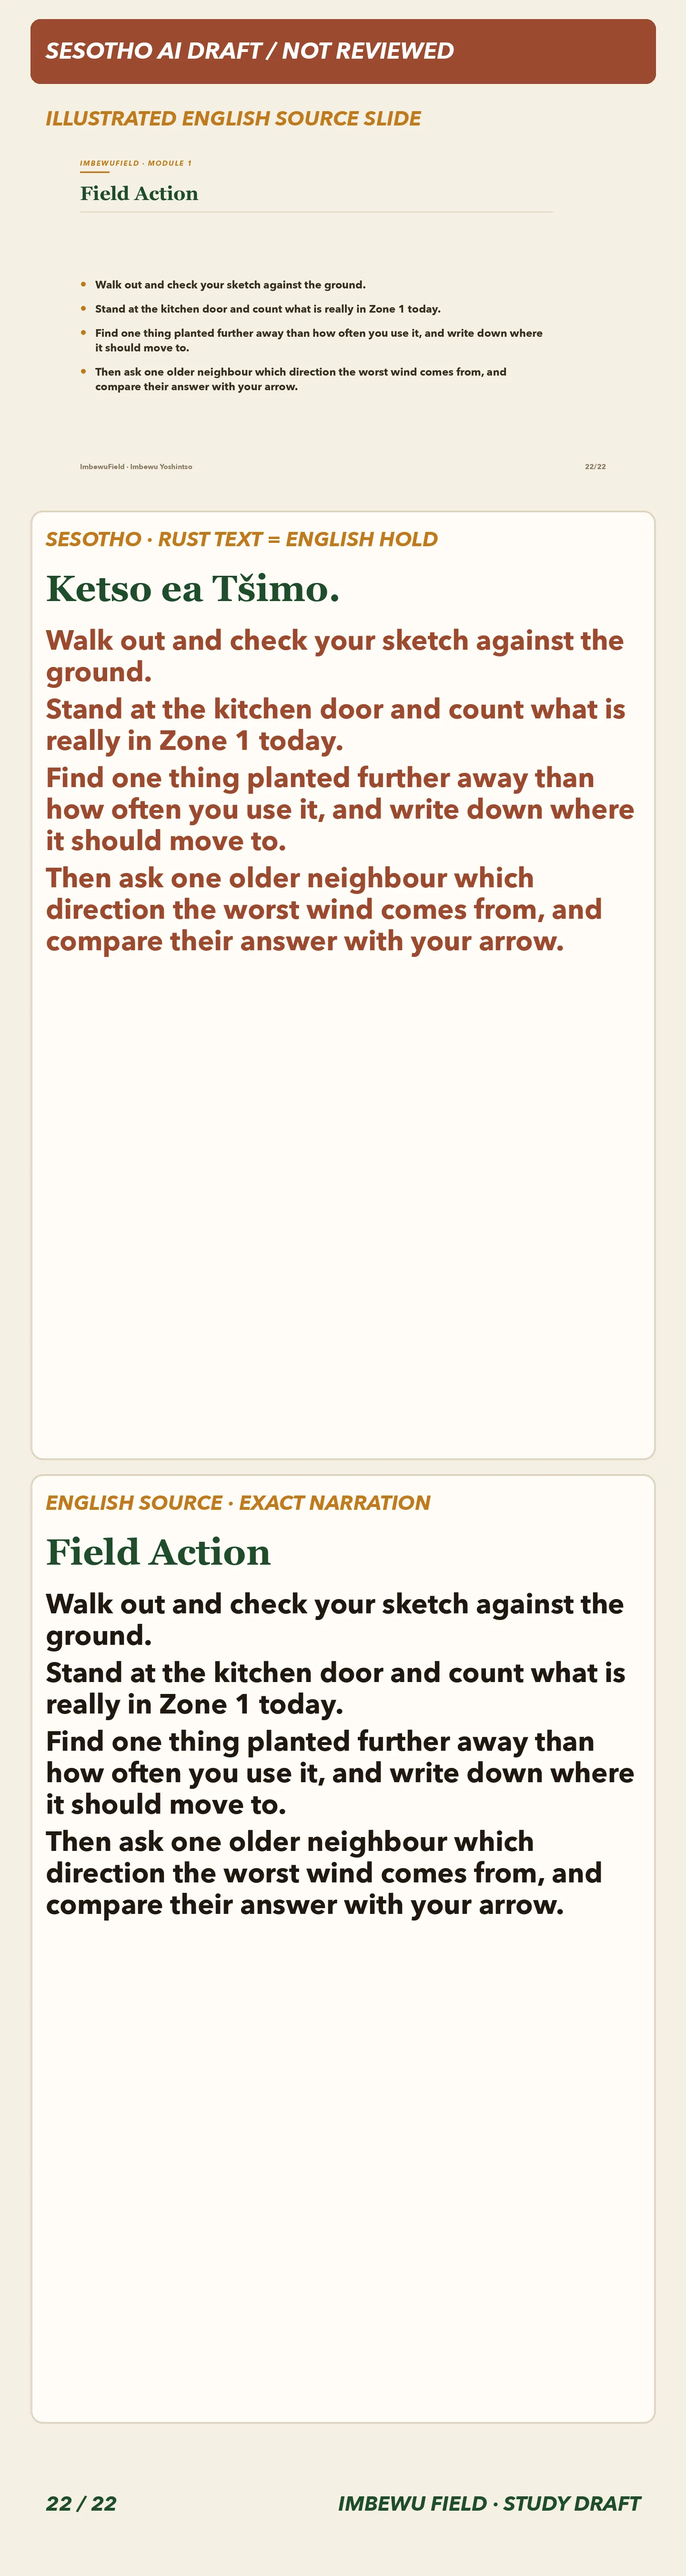
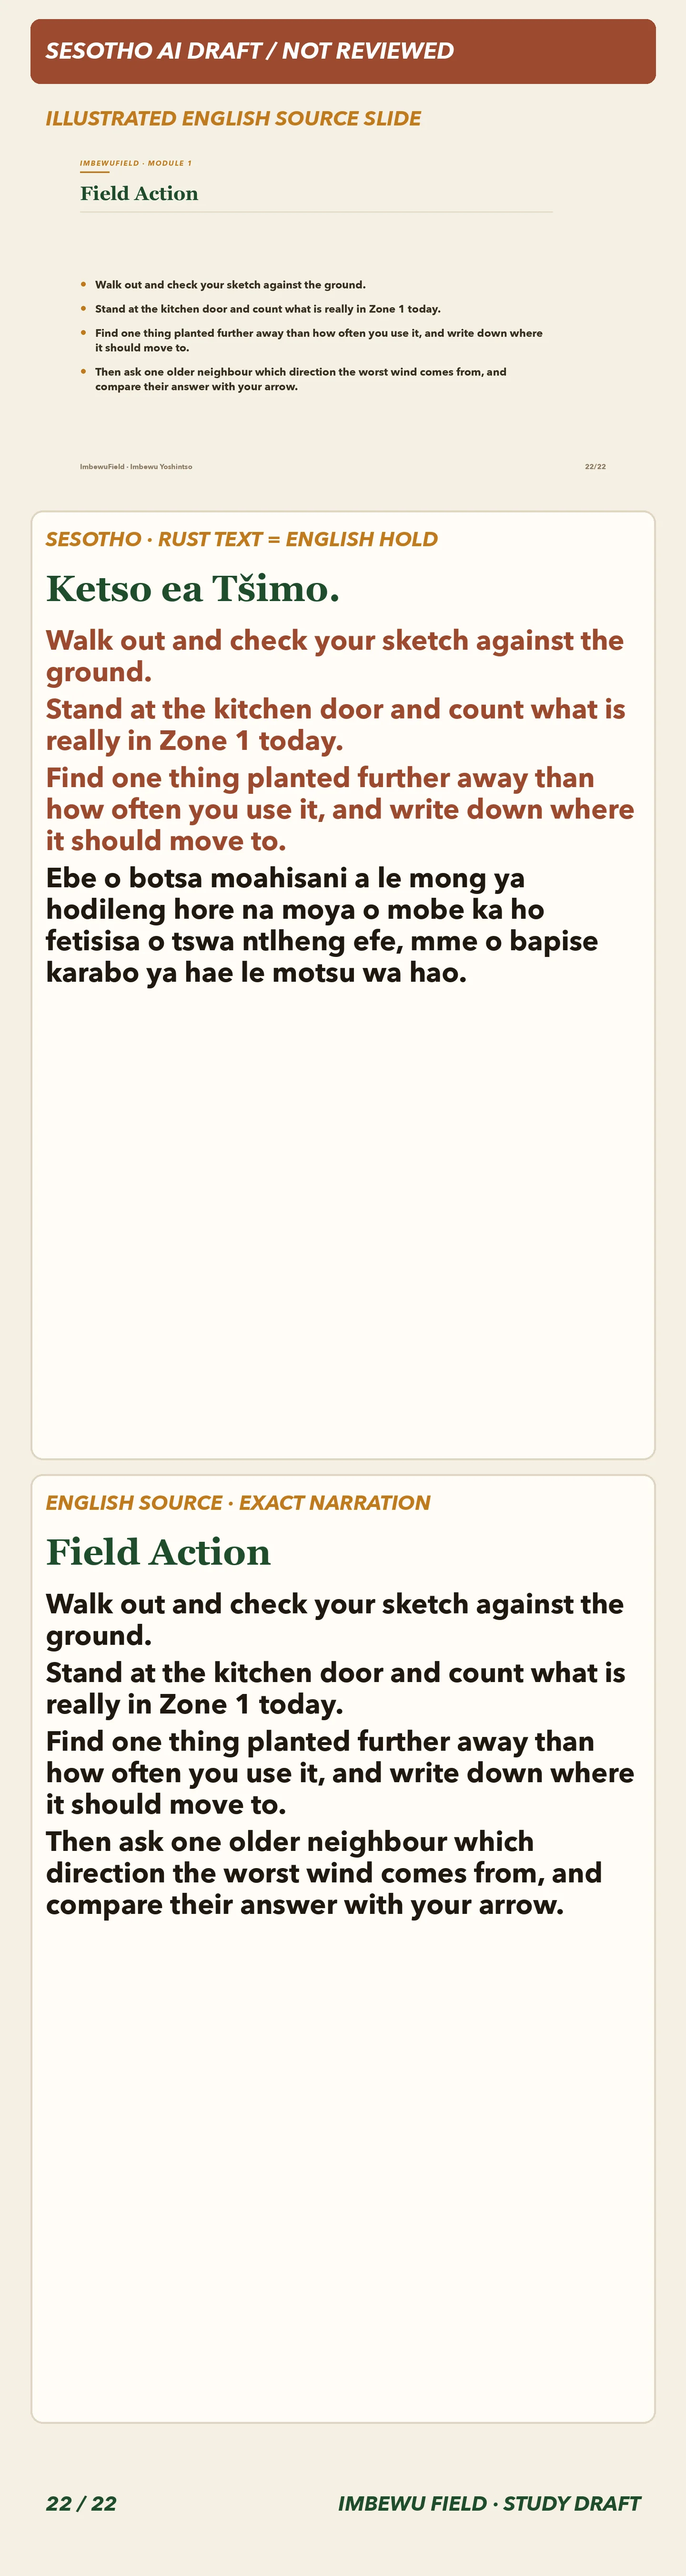
Extend source-paired Sesotho Introduction slides

Changed region(s): [[0.0625, 0.3111, 0.875, 0.4044]]

diff --git a/tests/paired-draft-slides.test.ts b/tests/paired-draft-slides.test.ts
@@ -30,6 +30,28 @@ test('the Sesotho pilot pairs all 22 actual English introduction slides in autho
   assert.equal(validatePairedDraft(completeHold(), source).length, 22);
 });
 
+test('Sesotho Introduction review slides keep uncertain field steps paired in English beside backchecked draft lines', () => {
+  const packet = JSON.parse(readFileSync('docs/narration/intro-permaculture.st.paired-draft.json', 'utf8'));
+  const slides = validatePairedDraft(packet, source, 'st');
+  const body = (n: number) => slides[n - 1].target.body;
+
+  assert.equal(body(20)[1].status, 'draft');
+  assert.equal(body(20)[1].text, 'Ebe o thala metsu e kenang ho tswa kantle bakeng sa letsatsi, moya, mollo le metsi.');
+  assert.equal(body(20)[2].status, 'draft');
+  assert.equal(body(20)[2].text, 'Leqephe leo la pampiri ke mokokotlo wa moralo wa hao. Ntho e nngwe le e nngwe khosong ena e itshetlehile hodima lona.');
+  assert.equal(body(20)[0].status, 'english-hold', 'the rings instruction stays paired in exact English after the backcheck flagged ambiguous wording');
+
+  assert.equal(body(21)[3].status, 'draft');
+  assert.equal(body(21)[3].text, 'Nka senepe sa setshwantsho.');
+  assert.ok(body(21).slice(0, 3).every((part: any) => part.status === 'english-hold'),
+    'technical zone and energy directions stay exact English for facilitator review');
+
+  assert.equal(body(22)[3].status, 'draft');
+  assert.equal(body(22)[3].text, 'Ebe o botsa moahisani a le mong ya hodileng hore na moya o mobe ka ho fetisisa o tswa ntlheng efe, mme o bapise karabo ya hae le motsu wa hao.');
+  assert.ok(body(22).slice(0, 3).every((part: any) => part.status === 'english-hold'),
+    'uncertain ground checking, counting and crop relocation wording stays exact English');
+});
+
 test('standard written Xitsonga uses the same exact source and paragraph pairing as Sesotho', () => {
   const draft = completeHold('ts');
   assert.equal(validatePairedDraft(draft, source, 'ts').length, source.length);

diff --git a/lib/course-asset-sizes.ts b/lib/course-asset-sizes.ts
@@ -674,9 +674,9 @@ export const COURSE_ASSET_SIZES: Readonly<Record<string, number>> = Object.freez
   '/course-decks/intro-permaculture/st/slide-17.webp': 529086,
   '/course-decks/intro-permaculture/st/slide-18.webp': 277404,
   '/course-decks/intro-permaculture/st/slide-19.webp': 499162,
-  '/course-decks/intro-permaculture/st/slide-20.webp': 403192,
-  '/course-decks/intro-permaculture/st/slide-21.webp': 192792,
-  '/course-decks/intro-permaculture/st/slide-22.webp': 231466,
+  '/course-decks/intro-permaculture/st/slide-20.webp': 443178,
+  '/course-decks/intro-permaculture/st/slide-21.webp': 208754,
+  '/course-decks/intro-permaculture/st/slide-22.webp': 249256,
   '/course-decks/intro-permaculture/ts/slide-01.webp': 265008,
   '/course-decks/intro-permaculture/ts/slide-02.webp': 266810,
   '/course-decks/intro-permaculture/ts/slide-03.webp': 246212,

diff --git a/docs/study-translation-reviews/INTRO-PERMACULTURE-ST-SLIDES-12-22-AI-DRAFT-REVIEW.md b/docs/study-translation-reviews/INTRO-PERMACULTURE-ST-SLIDES-12-22-AI-DRAFT-REVIEW.md
@@ -6,6 +6,8 @@ Source: `docs/narration/intro-permaculture.en.md` at the same revision. English 
 
 The target wording is provisional and must be checked by a fluent Sesotho speaker from the intended Free State audience. Technical permaculture terms remain in English where useful for facilitator explanation. Actionable field assignments and uncertain farming, water, wind, crop, count, and labour claims remain on hold.
 
+Slides 20–22 received one additional machine-translation pass followed by a separate semantic backcheck. Only four lines with a clear back-translation were added: slide 20’s arrows and design-paper metaphor, slide 21’s photo instruction (with the spelling corrected), and slide 22’s neighbour question. The backcheck flagged the rings word, the land/Zone and energy directions, ground-checking, counting, and crop-relocation wording as ambiguous or awkward; those source paragraphs stay exact English. The English source remains beside every draft, and this check is not human approval.
+
 ## Slide 12
 
 **Tally:** headings translated 0, held 1; body paragraphs translated 3, held 0. Pause cues are source directions and are excluded.
@@ -451,7 +453,7 @@ On your own site, observe the damaging winds before choosing where to plant. Thi
 
 ## Slide 20
 
-**Tally:** headings translated 0, held 1; body paragraphs translated 1, held 3. Pause cues are source directions and are excluded.
+**Tally:** headings translated 0, held 1; body paragraphs translated 3, held 1. Pause cues are source directions and are excluded.
 
 **Exact English heading:**
 
@@ -497,9 +499,11 @@ It does not need to be neat. It needs to be true.
 
 - Paragraph 1 — **exact-English hold (is a field design instruction involving boundaries, house and visit-based rings):** Draw your boundary. Mark the house. Draw the rings outward by how often you visit.
 
-- Paragraph 2 — **exact-English hold (is an instruction to map external forces on the design):** Then draw arrows in from outside for sun, wind, fire and water.
+- Paragraph 2 — **provisional machine draft, unreviewed:** Ebe o thala metsu e kenang ho tswa kantle bakeng sa letsatsi, moya, mollo le metsi.
+  - Exact English: `Then draw arrows in from outside for sun, wind, fire and water.`
 
-- Paragraph 3 — **exact-English hold (uses a design metaphor that could be unclear if translated literally):** That sheet of paper is the skeleton of your design. Everything else in this course hangs on it.
+- Paragraph 3 — **provisional machine draft, unreviewed:** Leqephe leo la pampiri ke mokokotlo wa moralo wa hao. Ntho e nngwe le e nngwe khosong ena e itshetlehile hodima lona.
+  - Exact English: `That sheet of paper is the skeleton of your design. Everything else in this course hangs on it.`
 
 - Paragraph 4: `[pause]` is a source direction; no target copy.
 
@@ -508,7 +512,7 @@ It does not need to be neat. It needs to be true.
 
 ## Slide 21
 
-**Tally:** headings translated 1, held 0; body paragraphs translated 0, held 4. Pause cues are source directions and are excluded.
+**Tally:** headings translated 1, held 0; body paragraphs translated 1, held 3. Pause cues are source directions and are excluded.
 
 **Exact English heading:**
 
@@ -552,11 +556,12 @@ Photograph the sketch.
 
 - Paragraph 3 — **exact-English hold (is a field assignment using the technical concept of external energies):** Add an arrow for each energy that arrives from outside, and label where it comes from.
 
-- Paragraph 4 — **exact-English hold (is an assignment instruction):** Photograph the sketch.
+- Paragraph 4 — **provisional machine draft, unreviewed:** Nka senepe sa setshwantsho.
+  - Exact English: `Photograph the sketch.`
 
 ## Slide 22
 
-**Tally:** headings translated 1, held 0; body paragraphs translated 0, held 4. Pause cues are source directions and are excluded.
+**Tally:** headings translated 1, held 0; body paragraphs translated 1, held 3. Pause cues are source directions and are excluded.
 
 **Exact English heading:**
 
@@ -600,4 +605,5 @@ Then ask one older neighbour which direction the worst wind comes from, and comp
 
 - Paragraph 3 — **exact-English hold (is an instruction to identify and relocate a planting):** Find one thing planted further away than how often you use it, and write down where it should move to.
 
-- Paragraph 4 — **exact-English hold (is an instruction involving a neighbour and wind-direction comparison):** Then ask one older neighbour which direction the worst wind comes from, and compare their answer with your arrow.
+- Paragraph 4 — **provisional machine draft, unreviewed:** Ebe o botsa moahisani a le mong ya hodileng hore na moya o mobe ka ho fetisisa o tswa ntlheng efe, mme o bapise karabo ya hae le motsu wa hao.
+  - Exact English: `Then ask one older neighbour which direction the worst wind comes from, and compare their answer with your arrow.`

diff --git a/docs/study-translation-reviews/INTRO-PERMACULTURE-ST-SLIDE-PILOT-PLAN.md b/docs/study-translation-reviews/INTRO-PERMACULTURE-ST-SLIDE-PILOT-PLAN.md
@@ -10,7 +10,7 @@ The app already has a Sesotho intro-permaculture review packet and visibly paire
 
 ## Safe pilot shape
 
-Use the existing numbered English source at `docs/narration/intro-permaculture.en.md` as the immutable source. The paired JSON packet contains exactly 22 numbered records. Each record retains the exact English heading and source paragraphs beside a provisional Sesotho heading and draft paragraphs. Missing or held target copy is explicitly marked as an English hold; no source fact, condition, number, or species is silently omitted. The packet carries an unreviewed machine-draft status. Its present 42 draft paragraphs and 46 English holds are review data, not a complete Sesotho teaching script.
+Use the existing numbered English source at `docs/narration/intro-permaculture.en.md` as the immutable source. The paired JSON packet contains exactly 22 numbered records. Each record retains the exact English heading and source paragraphs beside a provisional Sesotho heading and draft paragraphs. Missing or held target copy is explicitly marked as an English hold; no source fact, condition, number, or species is silently omitted. The packet carries an unreviewed machine-draft status. It now contains 46 draft paragraphs and 42 English holds; these remain review data, not a complete Sesotho teaching script.
 
 The generator now has an opt-in `--paired-draft` path. It checks all 22 records against the English script before rendering and uses vertically stacked Sesotho and exact-English panels with an unreviewed banner. The English and isiZulu paths remain unchanged. The proof reproduces each existing illustrated English source slide above the paired text, so a reviewer can compare the visual teaching context. Slide 10 uses the existing Black African site-observation photograph named in `INTRO-PERMACULTURE-ST-PAIRED-ART.json` because the English slide shows a White man; its exact English narration stays below. All 22 proofs are compressed as WebP learner assets. Slide 15 uses an existing numbered footpath illustration instead of the concentric circles Rory rejected. Slide 17 uses an existing Black African site-walk photograph instead of a second concentric diagram. Both visual changes are examples, not fixed zone layouts. The Sesotho copy is incomplete, and there is no Sesotho narration.
 
